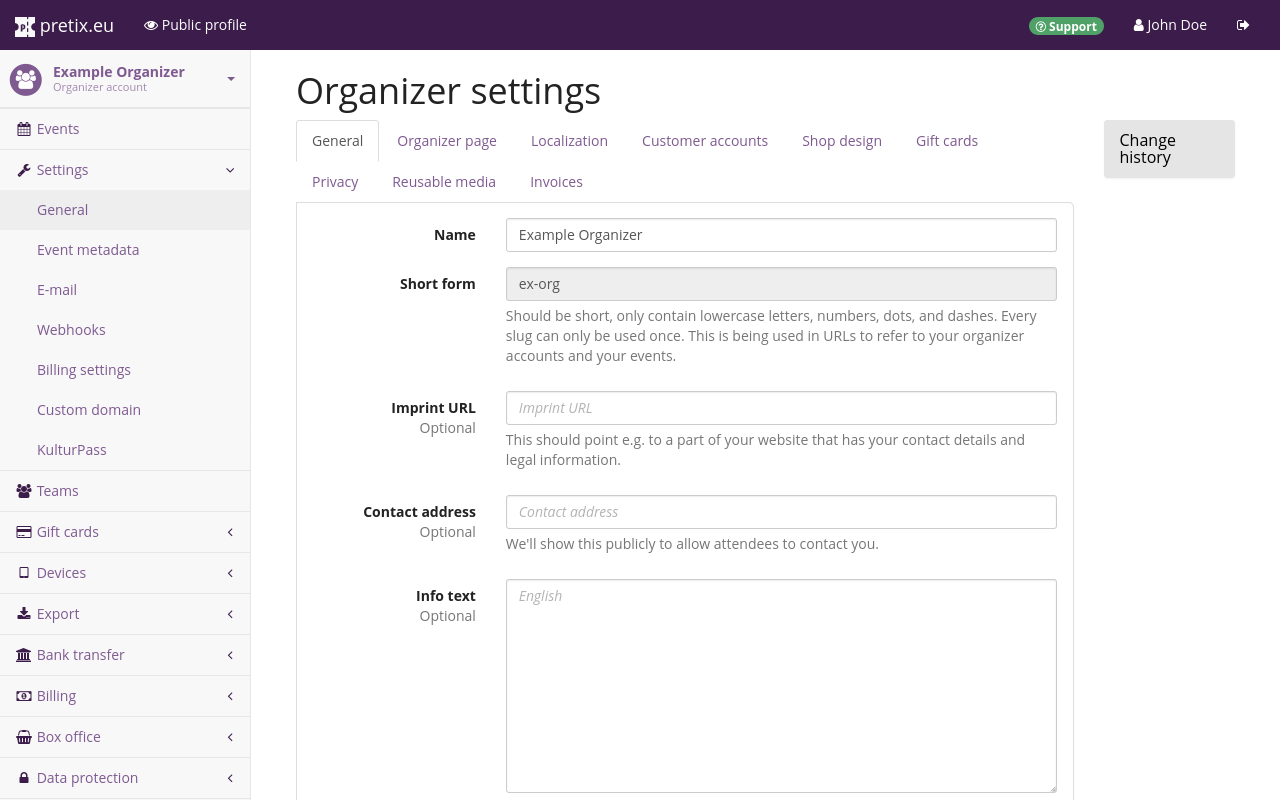
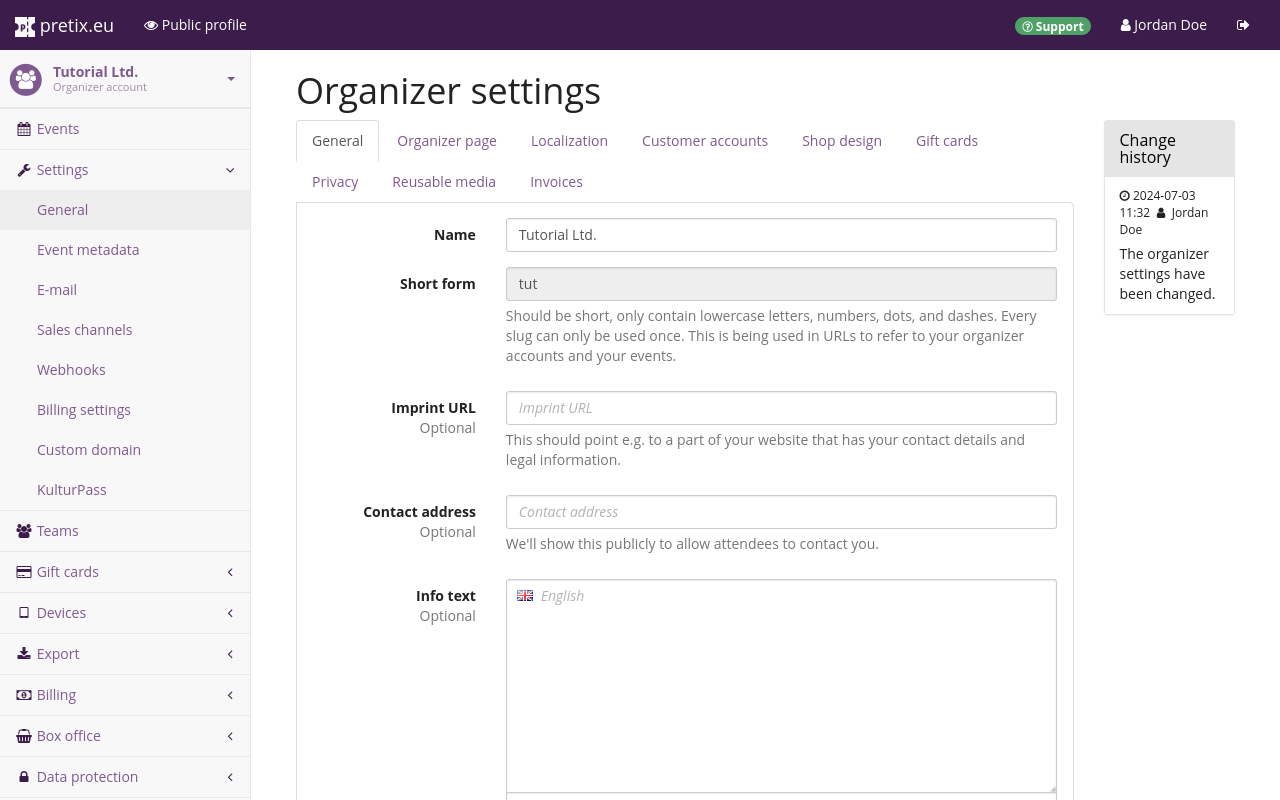
fix and update screenshots; remove first screenshot from organizer-account.md ## Organizer page

diff --git a/docs/tutorial/organizer-account.md b/docs/tutorial/organizer-account.md
@@ -77,7 +77,7 @@ We use the :btn:Save: button to apply our localization settings __before__ chang
 
 ## Organizer page 
 
-![Organizer settings page, on the organizer page tab, showing an upload button and options for the header image as well as fields for the homepage text in English and German](../assets/screens/organizer/organizer-page.png) 
+![Organizer settings page, on the organizer page tab, showing the following options: Header image, Use header image in its full size, Use header image also for events without an individually uploaded logo, Homepage text in multiple languages. The "public profile" button in the top bar is highlighted.](../assets/screens/organizer/organizer-page-public-profile.png) 
 
 Switching to the "organizer page" tab at the top allows us to add our logo and customize our shop's interface colors.
 Clicking the :btn:👁 Public profile: button in the bar at the top takes us to a preview of the organizer page from the customers' perspective.
@@ -89,8 +89,6 @@ The organizer page settings allow us to replace the name with a header image tha
 We are going to add the header image by clicking the :btn:Browse...: button next to the "Header image" option and choosing a .png file with a resolution of 1140 × 120 pixels from our computer. 
 The header image will replace the name of the event at the top of the page.
 We are going to check the box next to "Use header image also for events without an individually uploaded logo". 
-
-![Organizer settings page, on the organizer page tab, showing the following options: Header image, Use header image in its full size, Use header image also for events without an individually uploaded logo, Homepage text in multiple languages. The "public profile" button in the top bar is highlighted.](../assets/screens/organizer/organizer-page-public-profile.png) 
 
 In the "homepage text" fields, we can provide text to be displayed on our public profile. 
 There is one field for each language we activated in the "localization" tab (see the "localization" segment of this article)—English and German (informal). 
